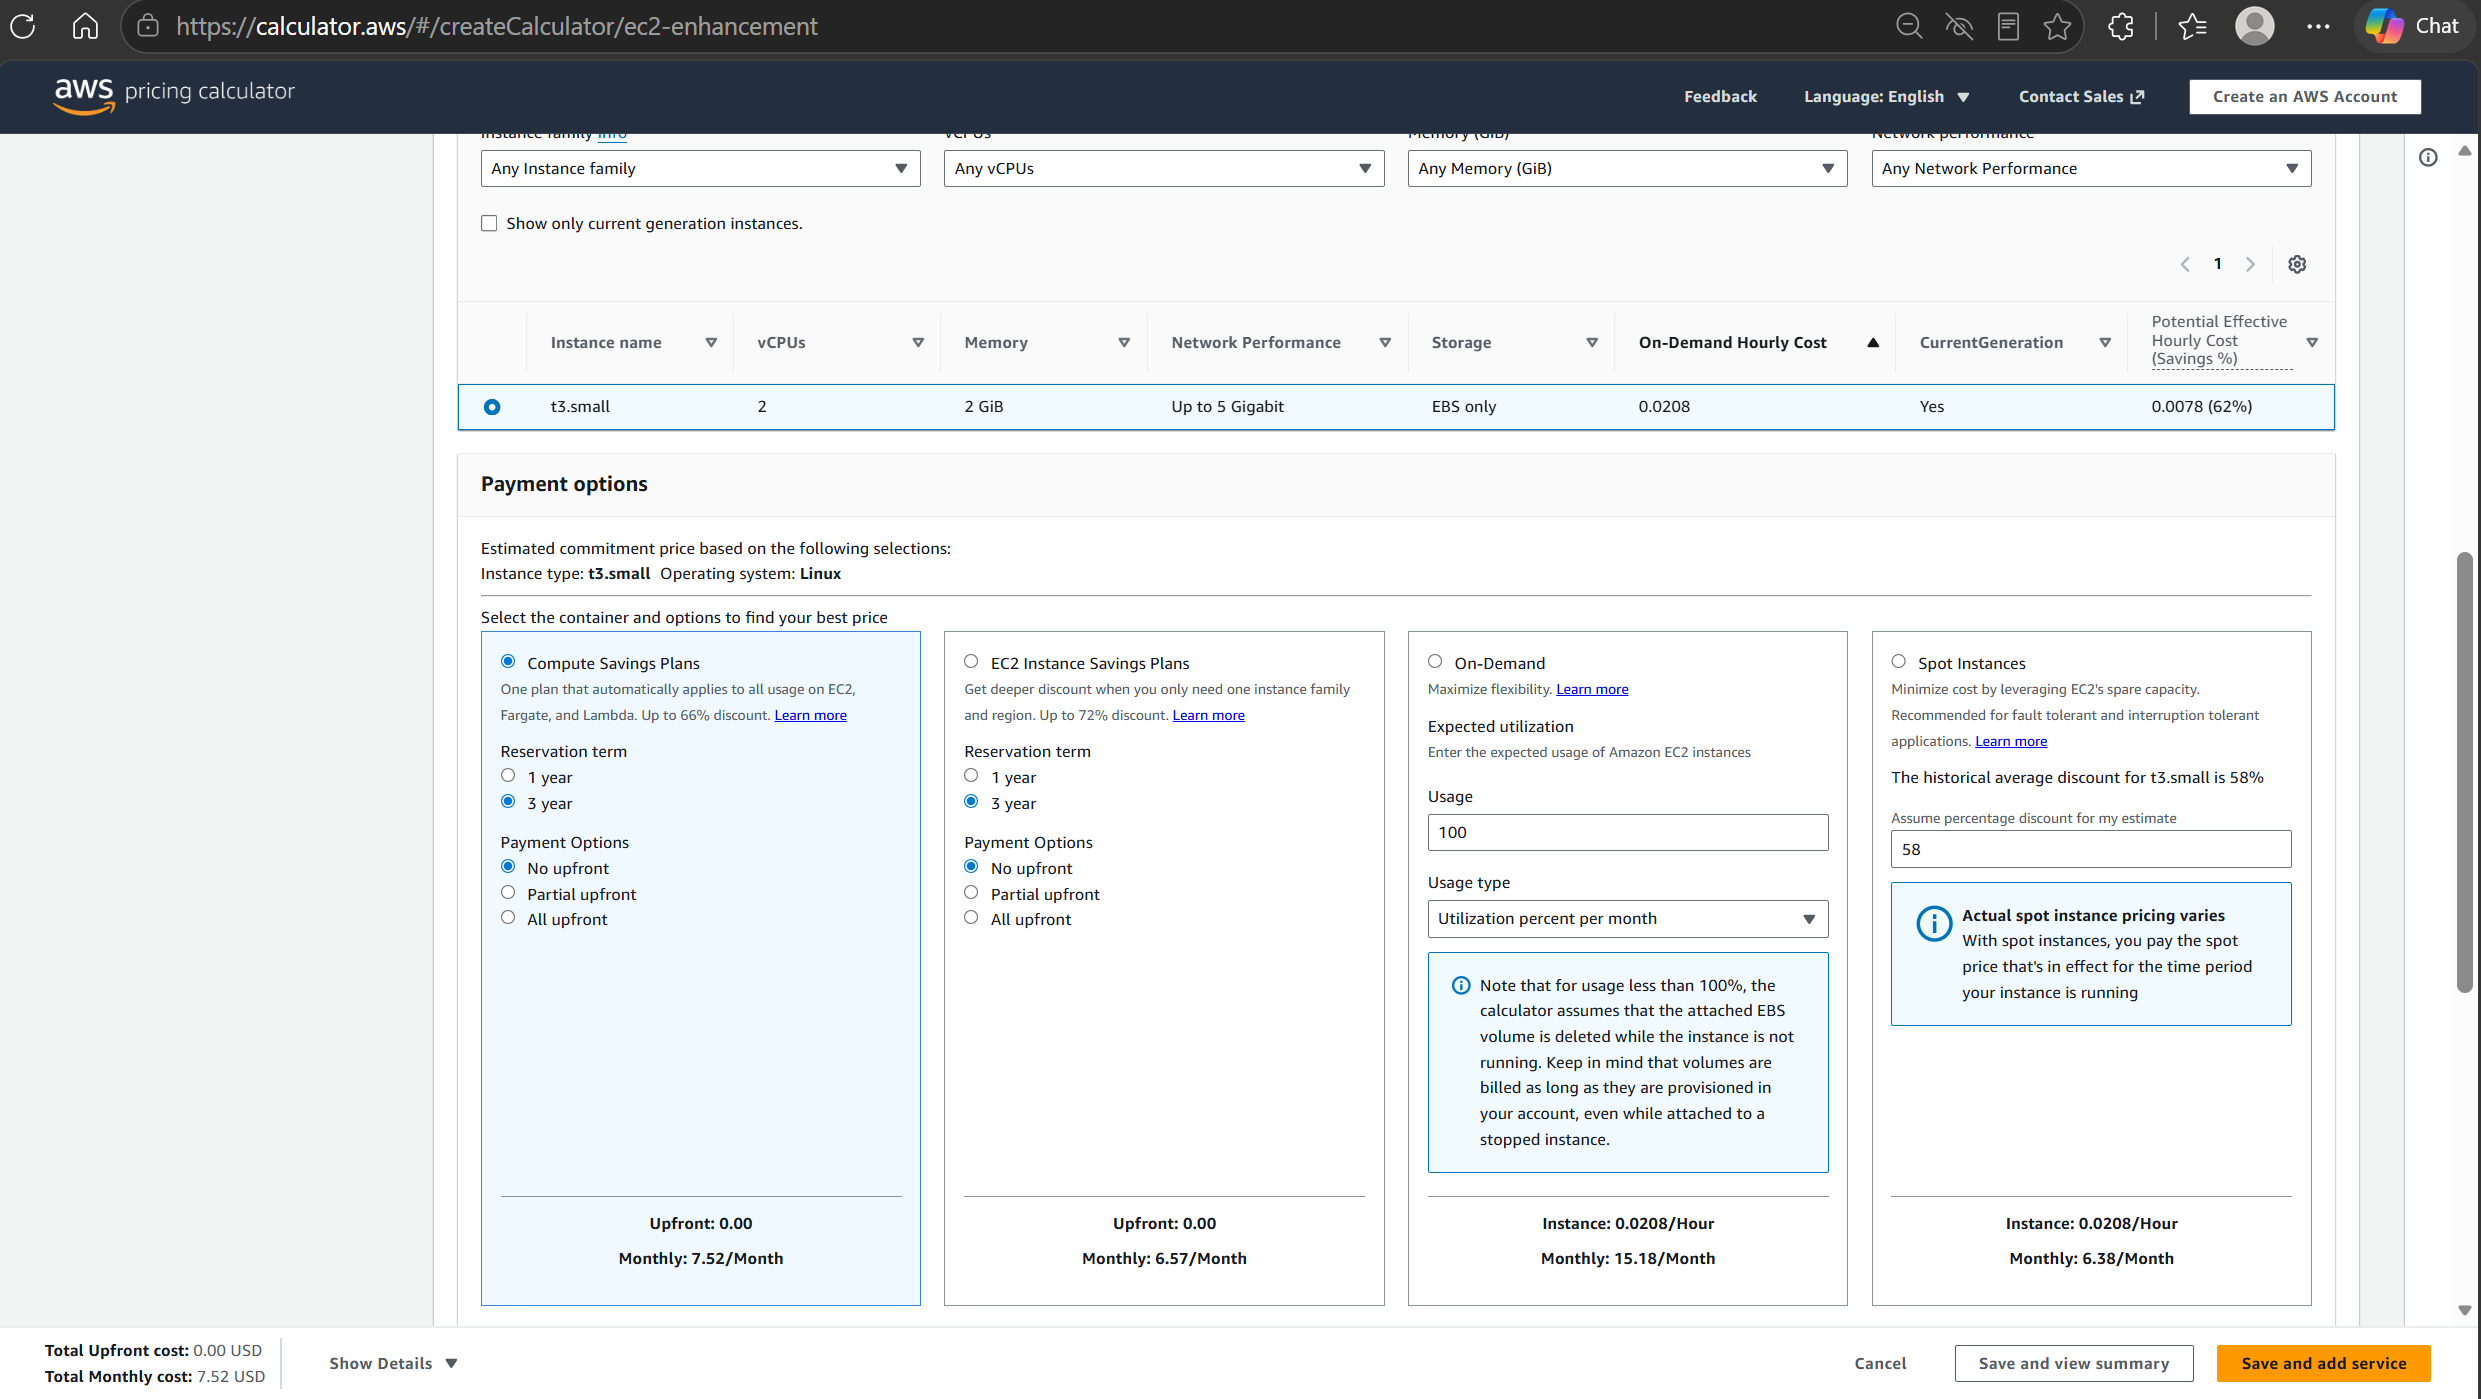
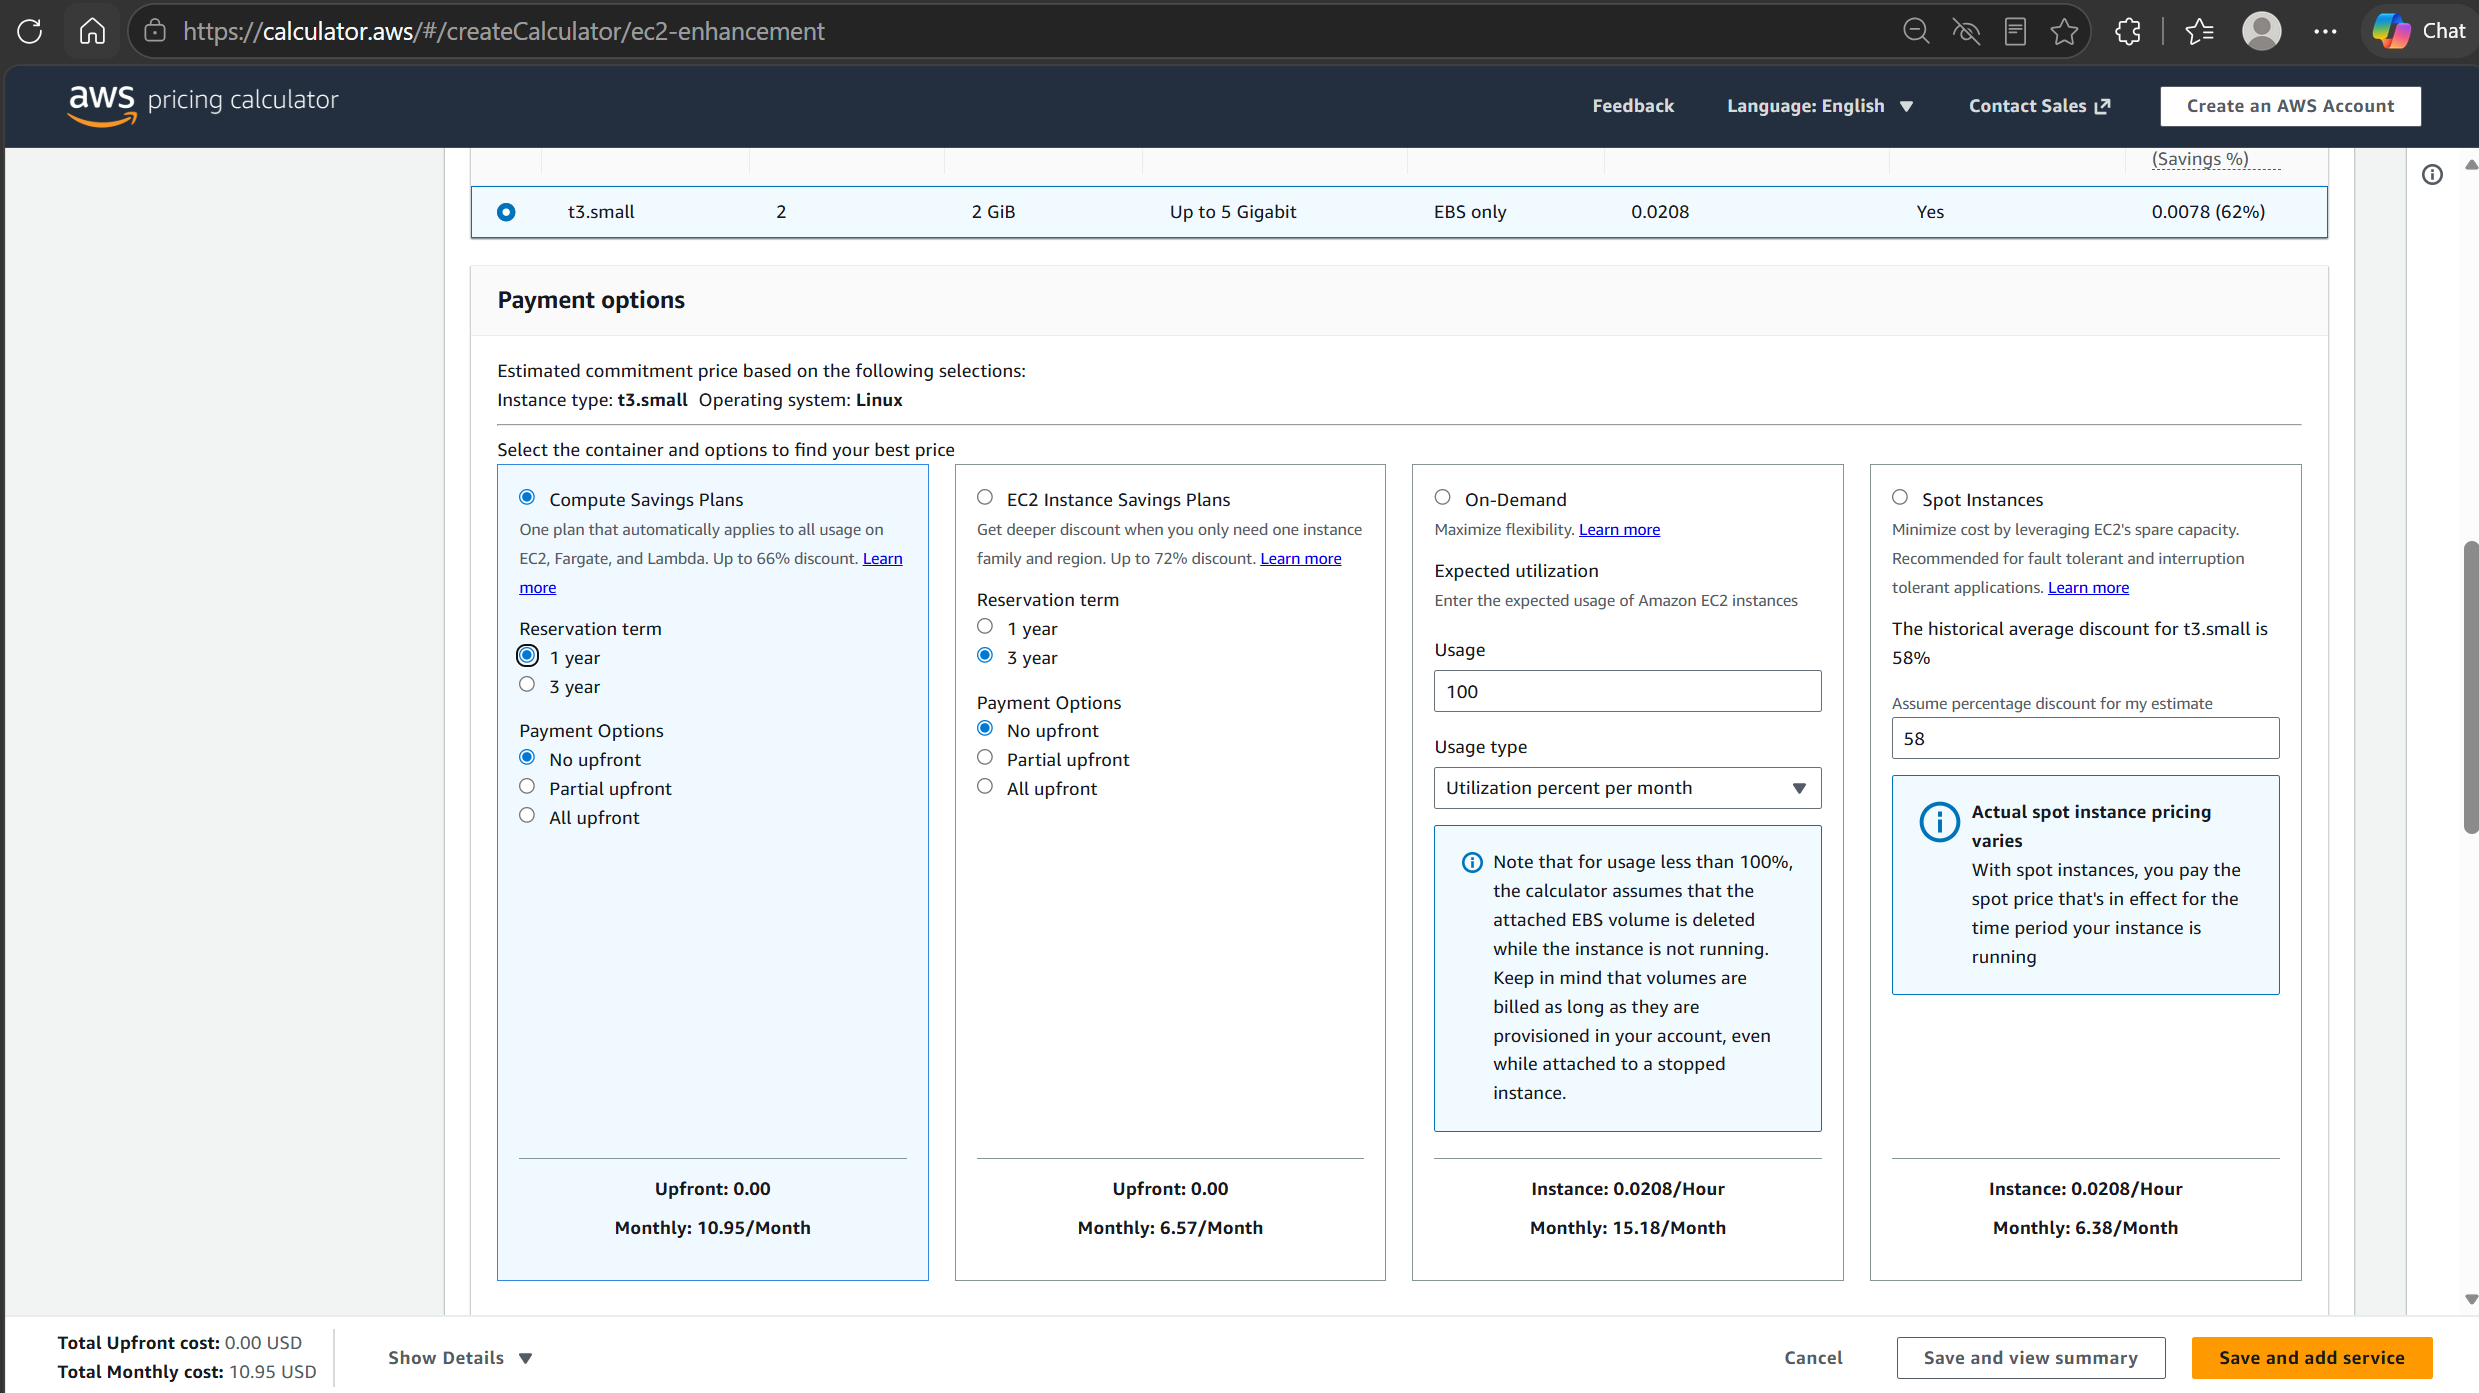
docs: add W6 evidence documentation for cost, observability, and security tasks

diff --git a/docs/W6_evidence.md b/docs/W6_evidence.md
@@ -371,12 +371,12 @@ Từ thiết kế hạ tầng Week 5, tụi em đã chủ động lựa chọn s
 
 #### 1-Year Compute Savings Plan (No Upfront)
 
-- **Savings Plan Commit:** **$7.52/month**.
-- **Monthly Savings:** $15.18 - $7.52 = **$7.66/month** (khoảng 50%).
+- **Savings Plan Commit:** **$10.95/month**.
+- **Monthly Savings:** $15.18 - $10.95 = **$4.23/month** (khoảng 28%).
 
 #### Break-Even & Recommendation
 
-- **Break-Even Point:** Since this is a 1-year contract, the total annual commitment is **$90.24** ($7.52 × 12). The break-even point against On-Demand occurs at **5.9 months** of continuous usage ($90.24 / $15.18).
+- **Break-Even Point:** Since this is a 1-year contract, the total annual commitment is **$131.40** ($10.95 × 12). The break-even point against On-Demand occurs at **8.6 months** of continuous usage ($131.40 / $15.18).
 - **Justified Deferral Decision:** Vì tài khoản AWS workshop thực chất chỉ được cấp phát và hoạt động **3 ngày mỗi tuần** (bị xóa hoặc khóa vào các ngày còn lại), việc mua Savings Plan kỳ hạn 1 năm sẽ là một quyết định lãng phí tài chính khổng lồ. Sẽ phải trả tiền cho toàn bộ 365 ngày nhưng chỉ thực sự sử dụng hạ tầng chưa tới 150 ngày. Do đó, việc trì hoãn (defer) mua Savings Plan và tiếp tục sử dụng On-Demand kết hợp với Auto Scaling/Cost Guard Lambda là quyết định FinOps tối ưu nhất cho profile của dự án này.
 
 <!-- 📸 SCREENSHOT: (Optional) AWS Pricing Calculator showing t3.small pricing comparison -->
